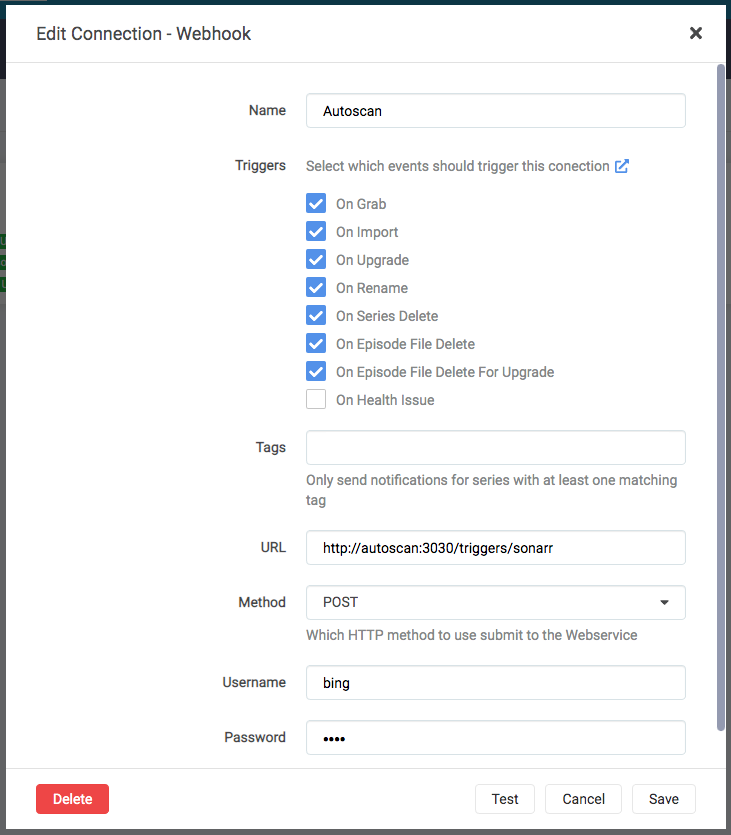
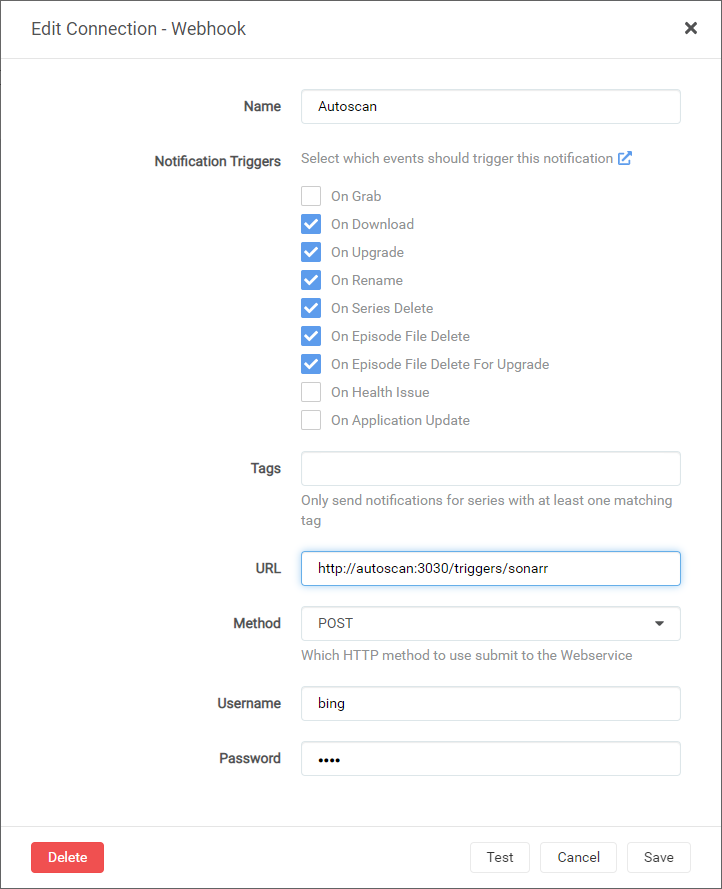
Plex Autoscan to Autoscan Updates & 'On Grab' incorrectly selected in screenshot (#46)
* Delete sonarr-autoscan.png

'On Grab' incorrectly selected in screenshot

* Add files via upload

Unticked 'On Grab'

* Update install_types.md

Removed Plex Autoscan and replaced with Autoscan

* Update install.md

Changed links from Plex Autoscan to Autoscan

diff --git a/docs/saltbox/install/install.md b/docs/saltbox/install/install.md
@@ -231,7 +231,7 @@ Go through these one at a time; some of the setups depend on previous setups.
 1. [NZBHydra2](../../apps/nzbhydra2.md)
 1. [Jackett](../../apps/jackett.md)
 1. [Plex Media Server](../../apps/plex.md)
-1. [utoscan](../../apps/autoscan.md)
+1. [Autoscan](../../apps/autoscan.md)
 1. [Sonarr](../../apps/sonarr.md)
 1. [Radarr](../../apps/radarr.md)
 1. [Lidarr](../../apps/lidarr.md)
